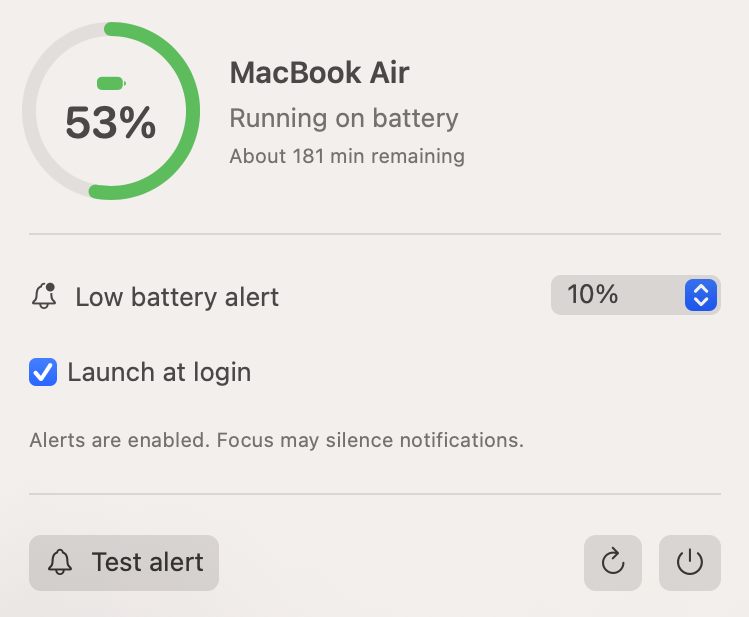
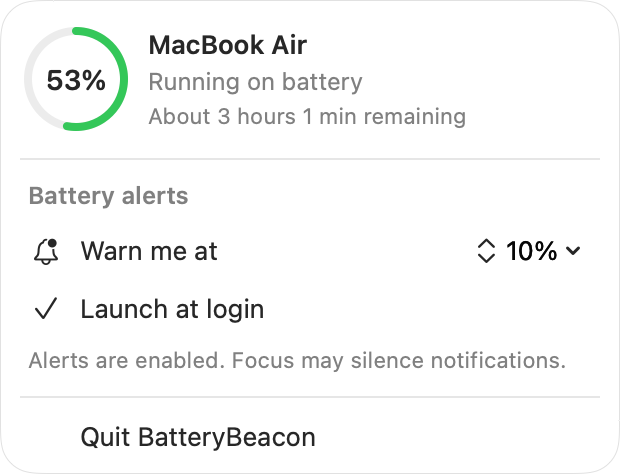
Show the current battery menu on the landing page

diff --git a/docs/index.html b/docs/index.html
@@ -43,8 +43,8 @@
         <p class="meta">macOS 13 or later · Build from source</p>
       </div>
       <figure>
-        <div class="frame"><img src="battery-menu.png" width="749" height="617" alt="Battery menu showing 53% charge, estimated time remaining, and the low-battery alert threshold"></div>
-        <figcaption>Screenshot from an earlier build</figcaption>
+        <div class="frame"><img src="battery-menu.png?v=current-menu" width="620" height="474" alt="Battery menu showing 53% charge, estimated time remaining, and the low-battery alert threshold"></div>
+        <figcaption>Current app menu with sample battery readings</figcaption>
       </figure>
     </section>
     <footer>Free and open source under the MIT License.</footer>
